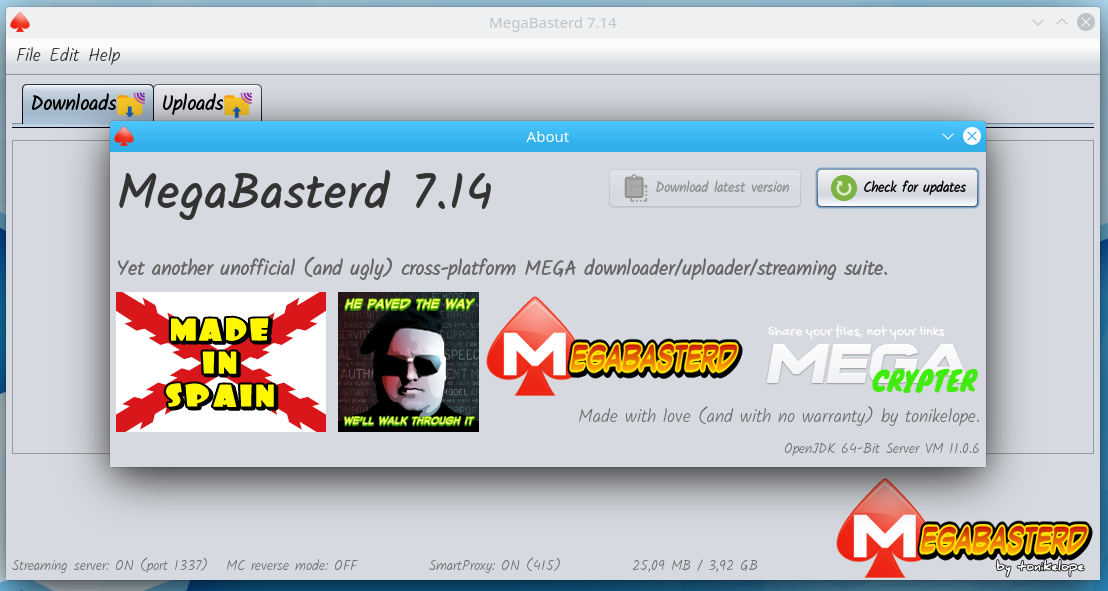
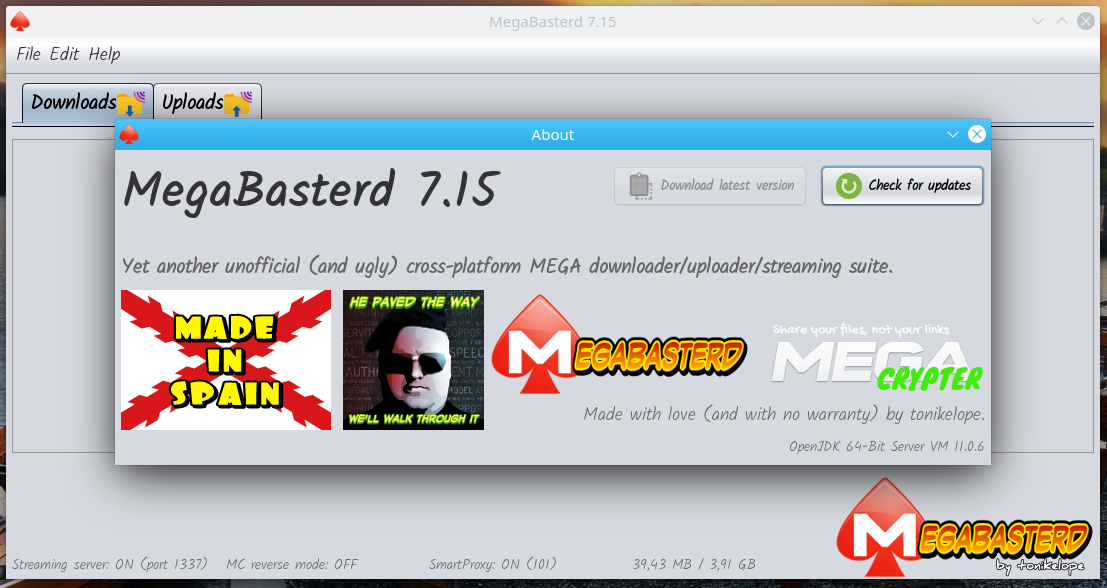
7.15
-Natural sort

Changed region(s): [[0.0, 0.0, 1.0, 1.0]]

diff --git a/src/main/java/com/tonikelope/megabasterd/MiscTools.java b/src/main/java/com/tonikelope/megabasterd/MiscTools.java
@@ -95,7 +95,8 @@ public class MiscTools {
         } else {
             String sa = a.getUserObject().toString();
             String sb = b.getUserObject().toString();
-            return sa.compareToIgnoreCase(sb);
+
+            return MiscTools.naturalCompare(sa, sb, true);
         }
     };
     private static final Logger LOG = Logger.getLogger(MiscTools.class.getName());
@@ -1132,6 +1133,69 @@ public class MiscTools {
         }
 
         System.exit(2);
+    }
+
+    /*
+        Thanks -> https://stackoverflow.com/a/26884326
+     */
+    public static int naturalCompare(String a, String b, boolean ignoreCase) {
+        if (ignoreCase) {
+            a = a.toLowerCase();
+            b = b.toLowerCase();
+        }
+        int aLength = a.length();
+        int bLength = b.length();
+        int minSize = Math.min(aLength, bLength);
+        char aChar, bChar;
+        boolean aNumber, bNumber;
+        boolean asNumeric = false;
+        int lastNumericCompare = 0;
+        for (int i = 0; i < minSize; i++) {
+            aChar = a.charAt(i);
+            bChar = b.charAt(i);
+            aNumber = aChar >= '0' && aChar <= '9';
+            bNumber = bChar >= '0' && bChar <= '9';
+            if (asNumeric) {
+                if (aNumber && bNumber) {
+                    if (lastNumericCompare == 0) {
+                        lastNumericCompare = aChar - bChar;
+                    }
+                } else if (aNumber) {
+                    return 1;
+                } else if (bNumber) {
+                    return -1;
+                } else if (lastNumericCompare == 0) {
+                    if (aChar != bChar) {
+                        return aChar - bChar;
+                    }
+                    asNumeric = false;
+                } else {
+                    return lastNumericCompare;
+                }
+            } else if (aNumber && bNumber) {
+                asNumeric = true;
+                if (lastNumericCompare == 0) {
+                    lastNumericCompare = aChar - bChar;
+                }
+            } else if (aChar != bChar) {
+                return aChar - bChar;
+            }
+        }
+        if (asNumeric) {
+            if (aLength > bLength && a.charAt(bLength) >= '0' && a.charAt(bLength) <= '9') // as number
+            {
+                return 1;  // a has bigger size, thus b is smaller
+            } else if (bLength > aLength && b.charAt(aLength) >= '0' && b.charAt(aLength) <= '9') // as number
+            {
+                return -1;  // b has bigger size, thus a is smaller
+            } else if (lastNumericCompare == 0) {
+                return aLength - bLength;
+            } else {
+                return lastNumericCompare;
+            }
+        } else {
+            return aLength - bLength;
+        }
     }
 
     public static MegaAPI checkMegaAccountLoginAndShowMasterPassDialog(MainPanel main_panel, Container container, String email) throws Exception {

diff --git a/src/main/java/com/tonikelope/megabasterd/TransferenceManager.java b/src/main/java/com/tonikelope/megabasterd/TransferenceManager.java
@@ -570,7 +570,7 @@ abstract public class TransferenceManager implements Runnable, SecureSingleThrea
 
             ArrayList<Transference> trans_list = new ArrayList(queue);
 
-            trans_list.sort((Transference o1, Transference o2) -> o1.getFile_name().compareToIgnoreCase(o2.getFile_name()));
+            trans_list.sort((Transference o1, Transference o2) -> MiscTools.naturalCompare(o1.getFile_name(), o2.getFile_name(), true));
 
             queue.clear();
 

diff --git a/src/main/java/com/tonikelope/megabasterd/MainPanel.java b/src/main/java/com/tonikelope/megabasterd/MainPanel.java
@@ -55,7 +55,7 @@ import javax.swing.UIManager;
  */
 public final class MainPanel {
 
-    public static final String VERSION = "7.14";
+    public static final String VERSION = "7.15";
     public static final boolean FORCE_SMART_PROXY = false; //TRUE FOR DEBUGING SMART PROXY
     public static final int THROTTLE_SLICE_SIZE = 16 * 1024;
     public static final int DEFAULT_BYTE_BUFFER_SIZE = 16 * 1024;

diff --git a/src/main/java/com/tonikelope/megabasterd/MegaMutableTreeNode.java b/src/main/java/com/tonikelope/megabasterd/MegaMutableTreeNode.java
@@ -18,7 +18,8 @@ public class MegaMutableTreeNode extends DefaultMutableTreeNode {
     protected Comparator nodeComparator = new Comparator() {
         @Override
         public int compare(Object o1, Object o2) {
-            return o1.toString().compareToIgnoreCase(o2.toString());
+
+            return MiscTools.naturalCompare(o1.toString(), o2.toString(), true);
         }
 
         @Override
